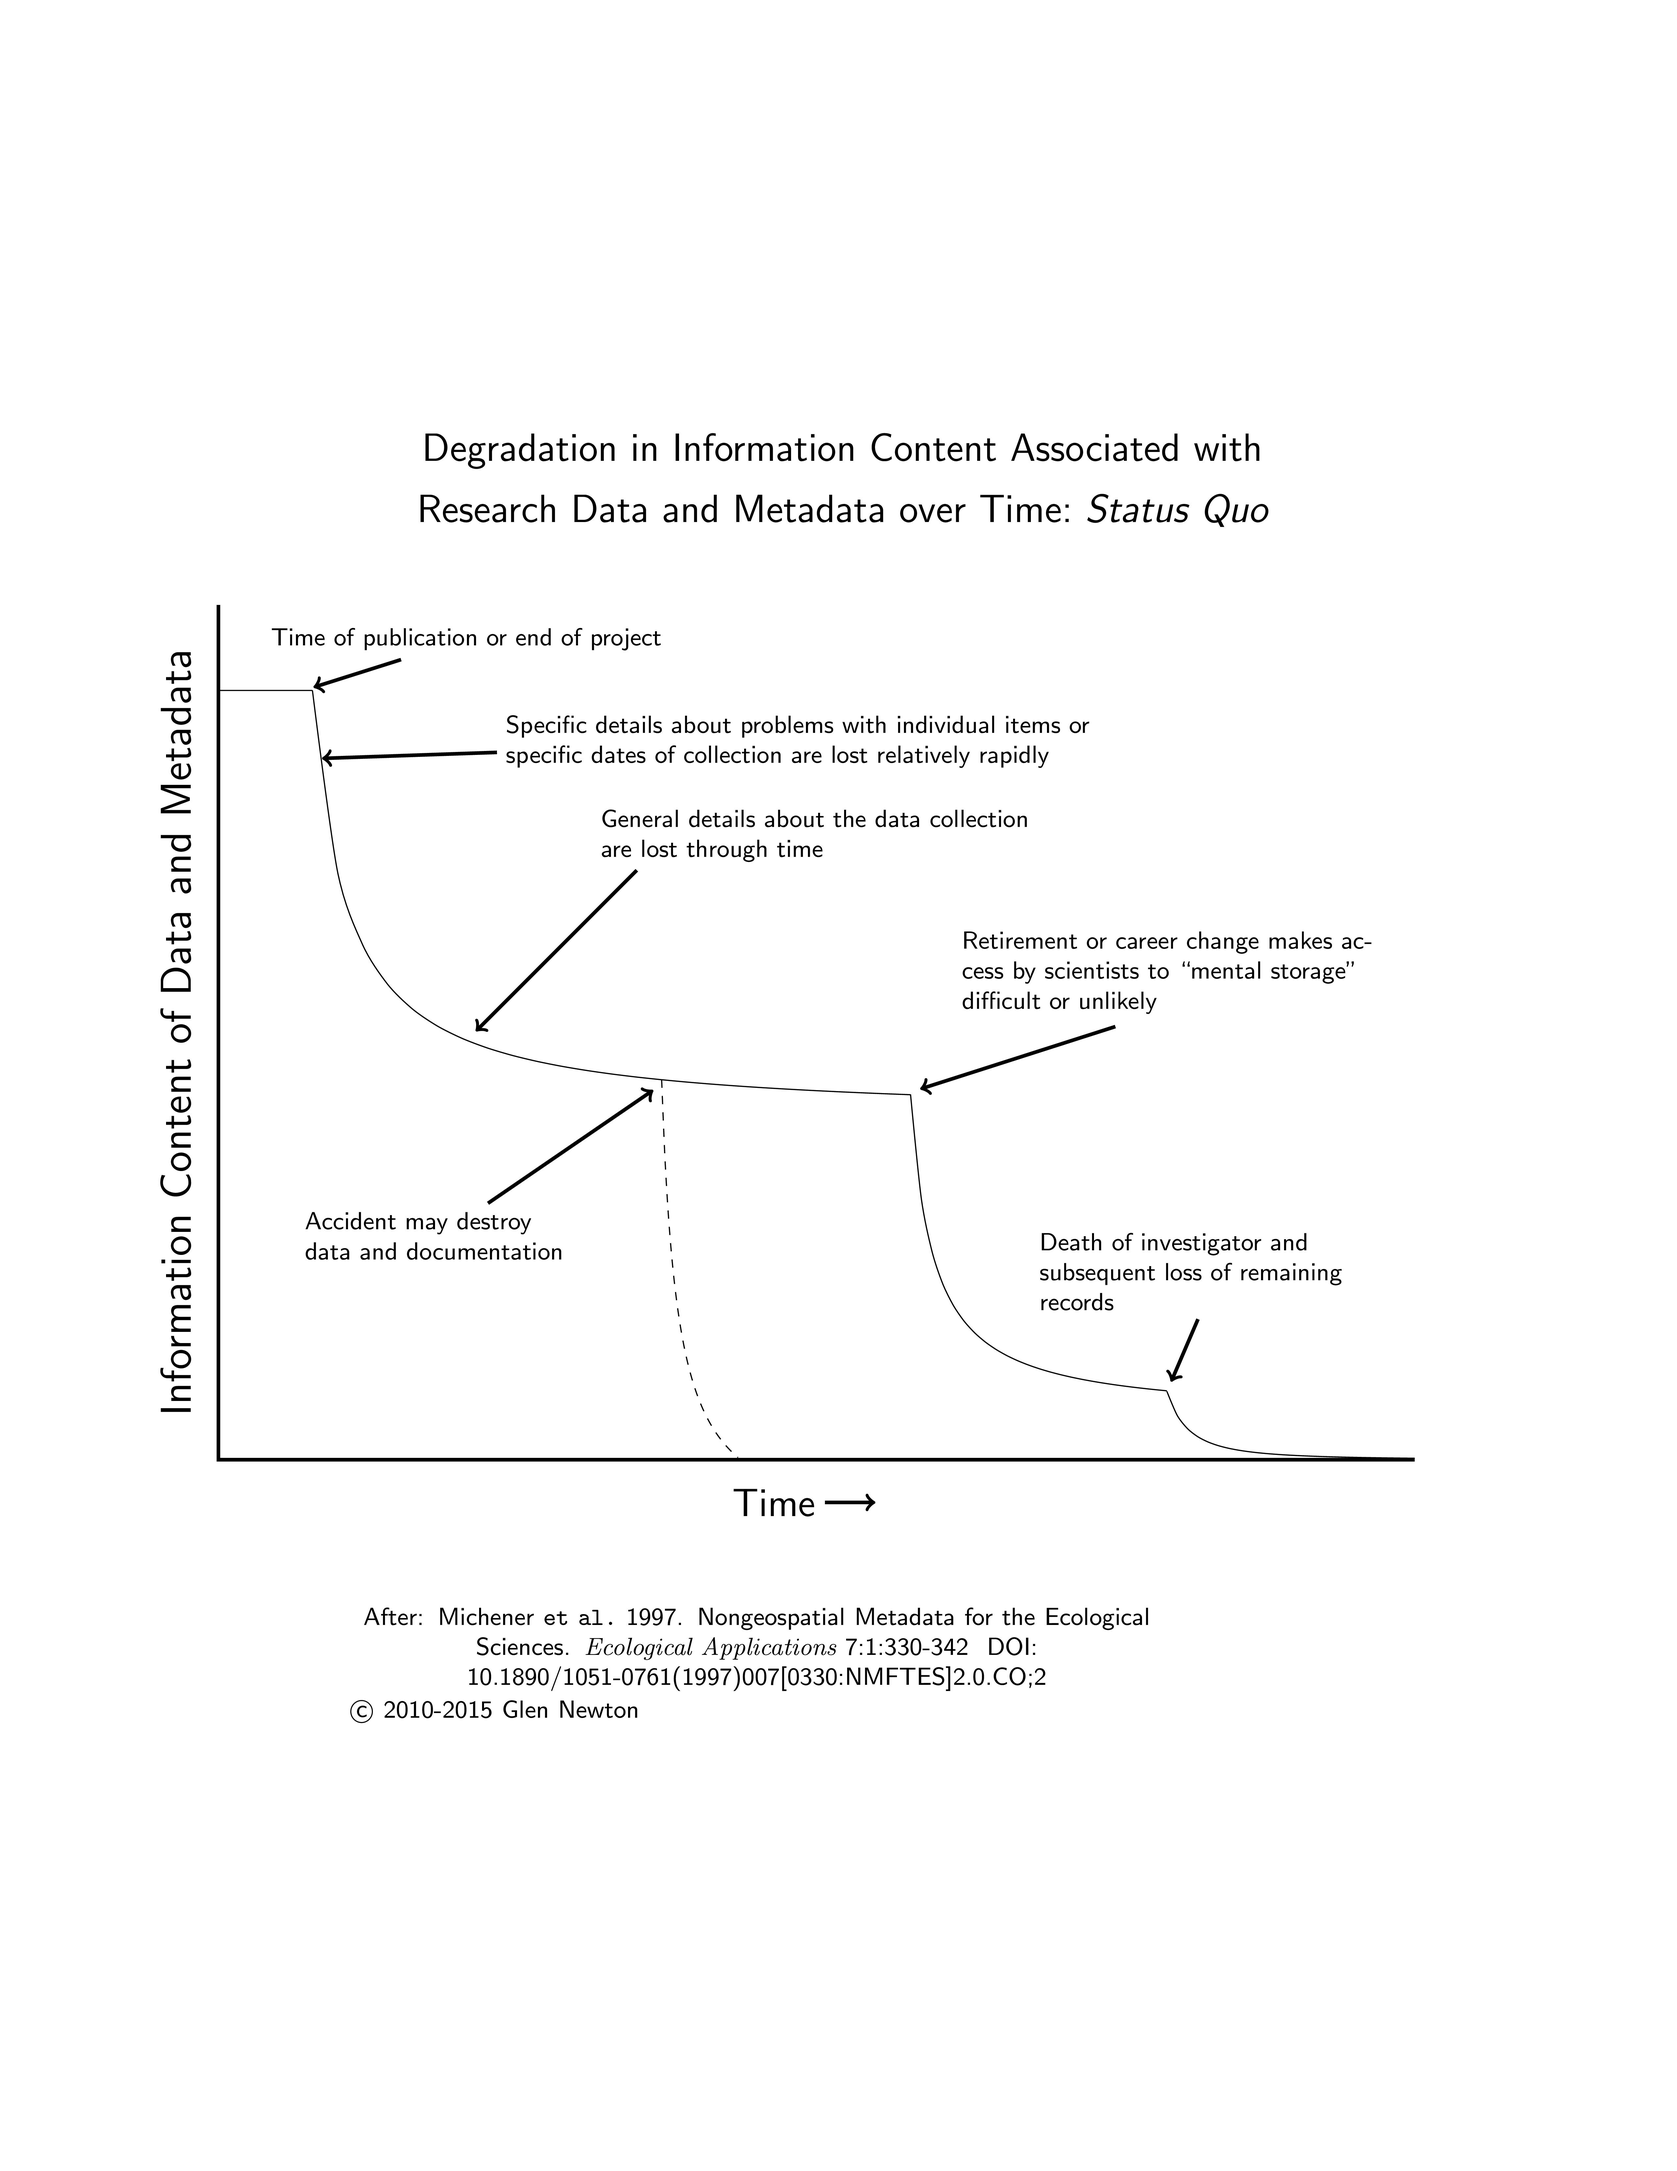
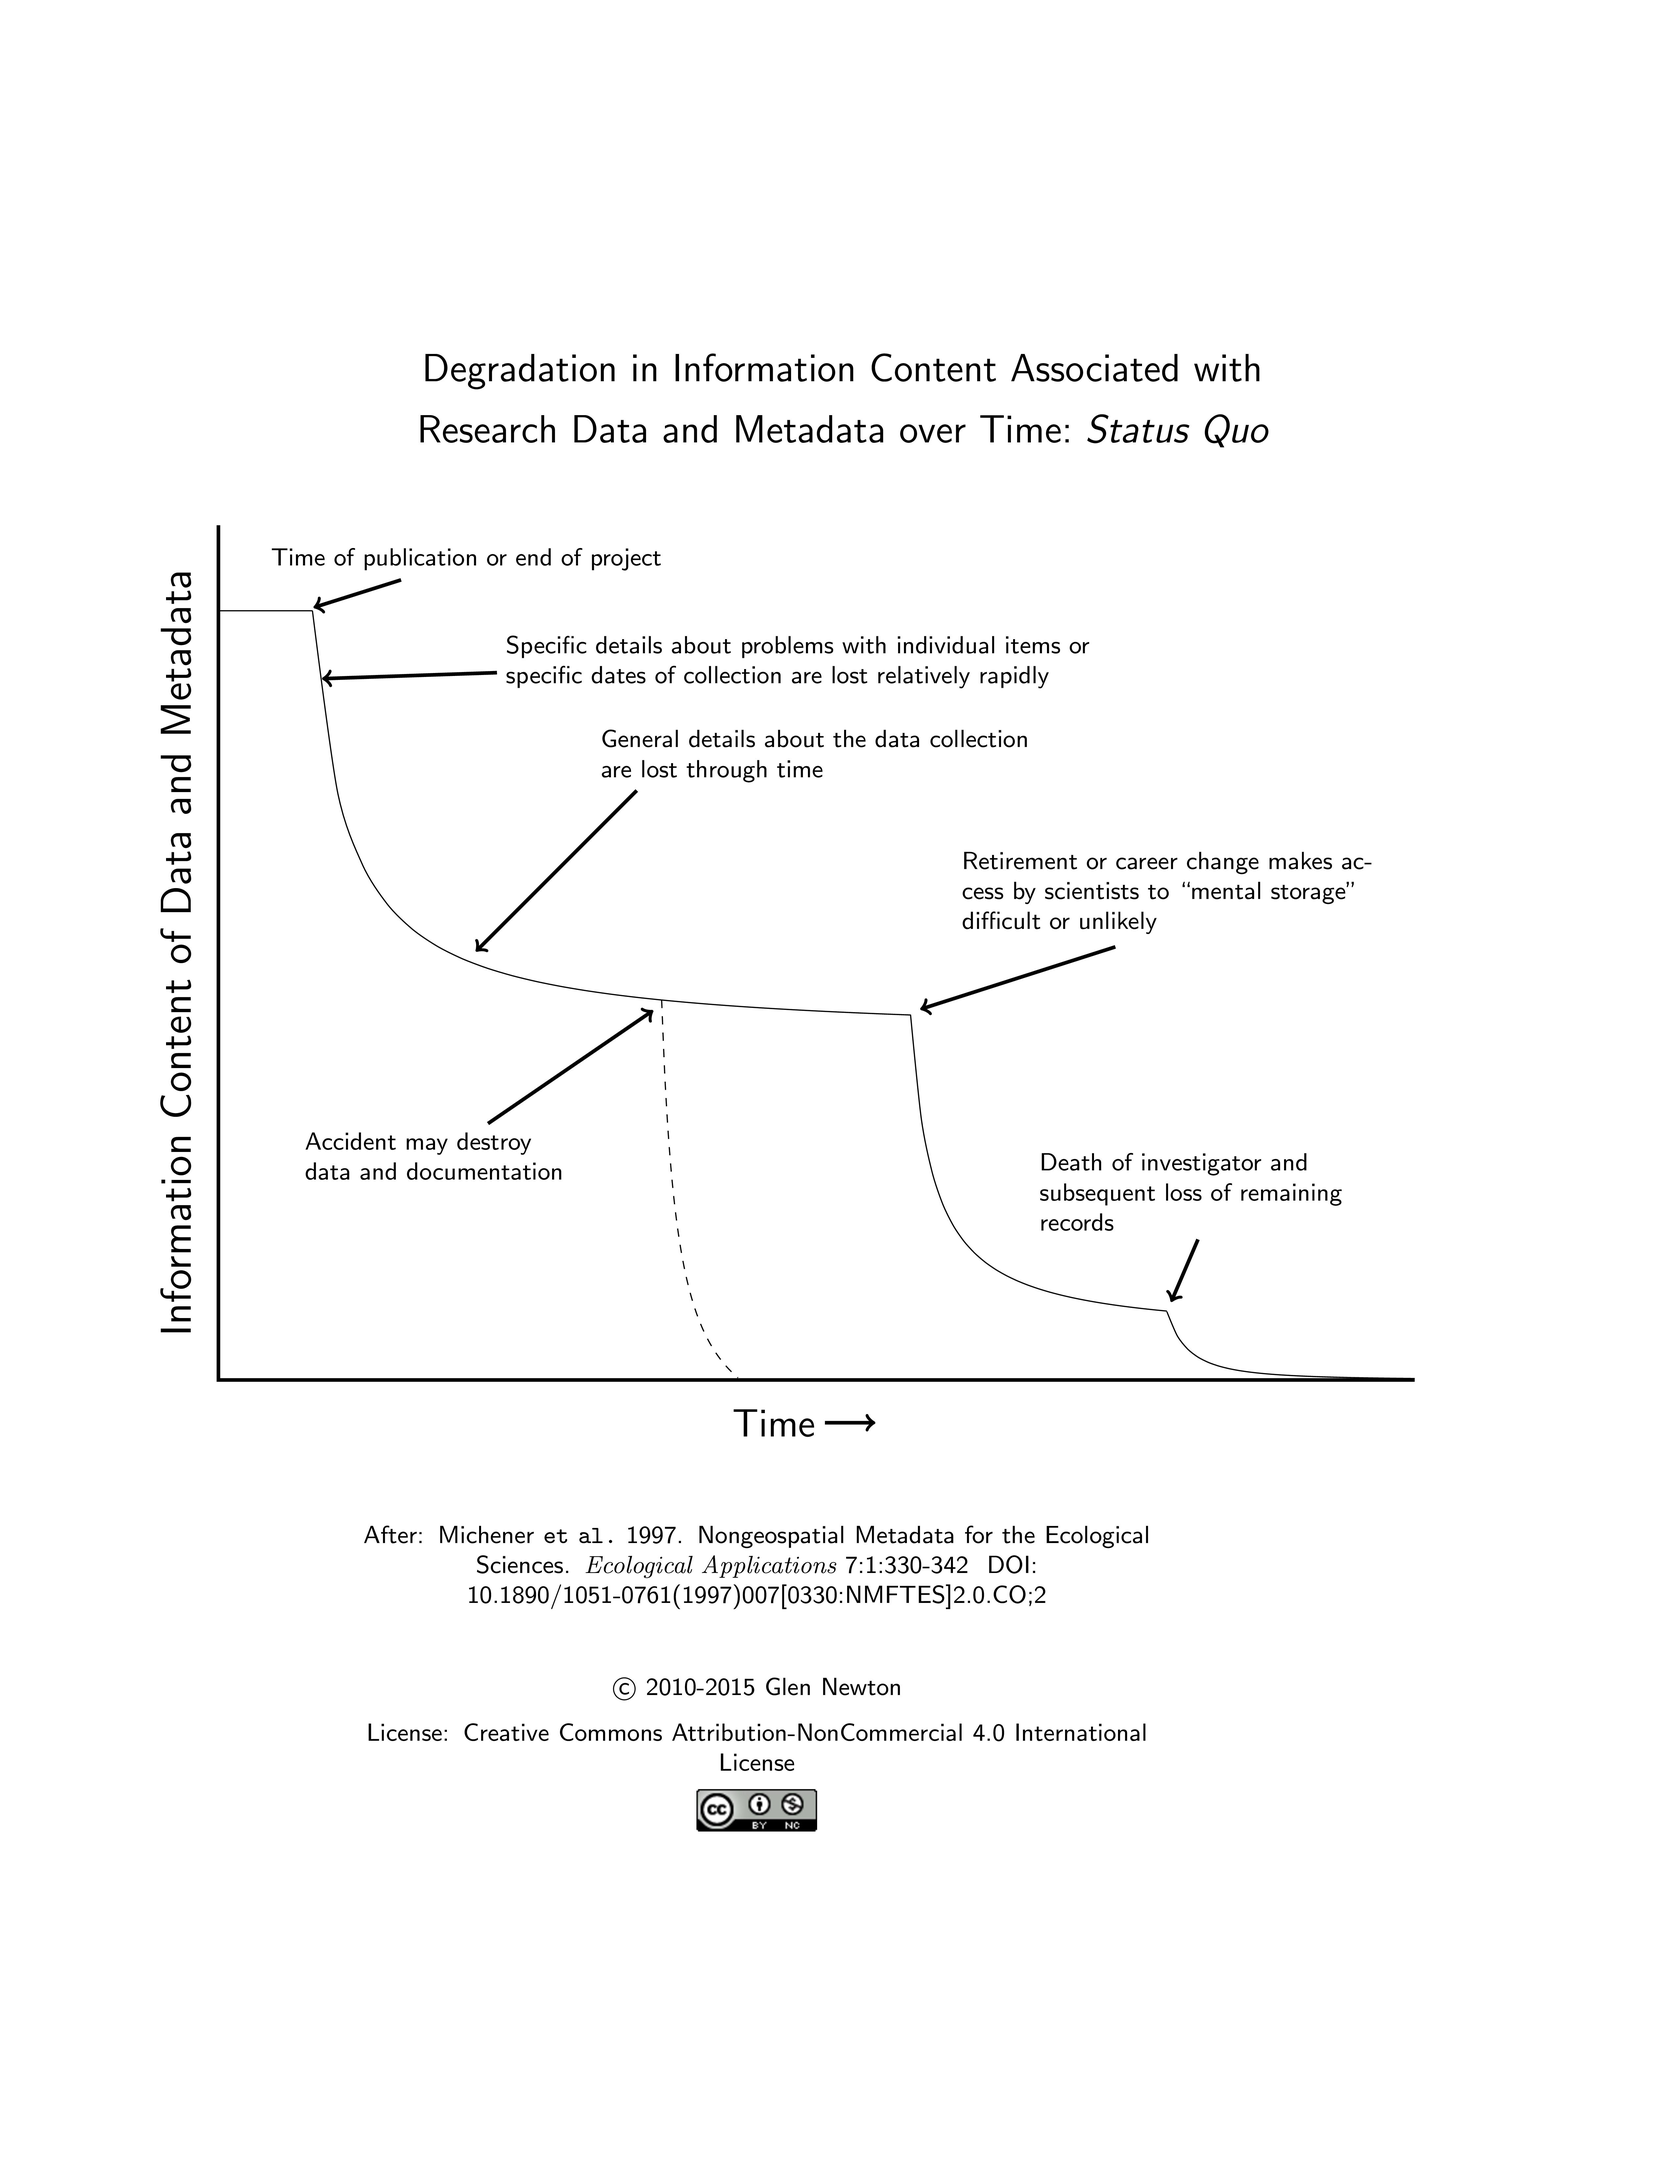
Added Creative Commons license to diagram

diff --git a/afterMichener1997.tex b/afterMichener1997.tex
@@ -128,7 +128,8 @@ with};%
   % };
 
   %\node[text width=10.5cm] at (9,-3.4){%
-  \node[text width=10.5cm] at (6.3,-2.2){%
+\node[text width=10.5cm] at (6.3,-2.2){%
+  \vspace{24mm}%
          \center \small%
      %% From: de la Sablonni\`ere, Auger, Sabourin and Newton. 2011. Facilitating Data Sharing %
      %% in the Behavioral Sciences. {\it Data Science Journal}. {\em In press}. %
@@ -136,7 +137,13 @@ with};%
      {\it Ecological Applications} 7:1:330-342 \ DOI: %
      \href{http://dx.doi.org/10.1890/1051-0761(1997)007[0330:NMFTES]2.0.CO;2}{10.1890/1051-0761(1997)007[0330:NMFTES]2.0.CO;2}%
      \\%
-     \copyright\ 2010-2015 Glen Newton%
+          \vspace{8mm}%
+          \copyright\ 2010-2015 Glen Newton\\%
+                    \vspace{2mm}%
+                    License: Creative Commons Attribution-NonCommercial 4.0 International License\\
+                    \vspace{2mm}%
+                    \includegraphics[scale=0.5]{88x31.png}
+     
   };%
    %  \node at (9,-1.5){\tiny After: {Michener {\it et al.}} 1997 {\bf Ecological Applications} 7:1:330-342, \tiny \href{http://dx.doi.org/10.1890/1051-0761(1997)007[0330:NMFTES]2.0.CO;2}{10.1890/1051-0761(1997)007[0330:NMFTES]2.0.CO;2}};
 
